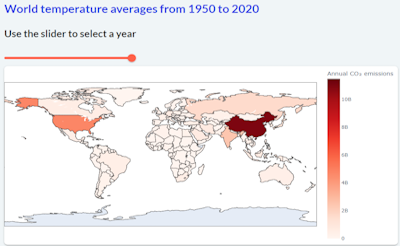
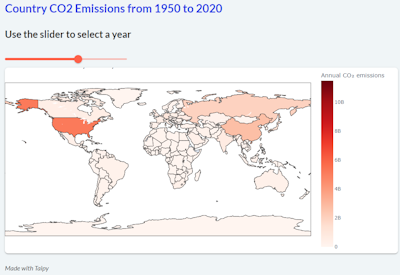
update

diff --git a/multipage/pages/home.py b/multipage/pages/home.py
@@ -5,12 +5,12 @@ import taipy.gui.builder as tgb
 def on_button_press(state, id):
     page = "home"
     if id == "CO2": page = "CO2_Sources" 
-    if id == "temp": page = "Average_World_Temperatures"
+    if id == "CO2Country": page = "CO2_by_Country"
     print(id,page)
     navigate(state, to=page)
 
 with tgb.Page() as page:
-    tgb.text( value = "## World Temperatures and CO2 Emissions", mode = 'md', class_name="color-secondary")
+    tgb.text( value = "## World CO2 Emissions", mode = 'md', class_name="color-secondary")
     tgb.text( value = "#### Explore the graphs using the navigation bar above, or the buttons below.", 
              mode = 'md')
     with tgb.layout(columns="1 1"):
@@ -20,11 +20,11 @@ with tgb.Page() as page:
                 with tgb.part():
                     tgb.text("__Select the Co2 Emissions page here:__", mode='md')
                 with tgb.part():
-                    tgb.button("CO2", id="CO2",  on_action=on_button_press)
+                    tgb.button("CO2 by source", id="CO2",  on_action=on_button_press)
         with tgb.part():
             tgb.text("![](images/worldtemppagesmall.png)", mode='md') 
             with tgb.layout("2 1"):
                 with tgb.part():
-                    tgb.text("__Select the world temperatures page here:__", mode='md')
+                    tgb.text("__Select CO2 by Country page here:__", mode='md')
                 with tgb.part():
-                    tgb.button("Temperatures", id="temp", on_action=on_button_press)
+                    tgb.button("CO2 by Country", id="CO2Country", on_action=on_button_press)

diff --git a/multipage/pages/CO2_map.py b/multipage/pages/CO2_map.py
@@ -7,11 +7,6 @@ year_max = 2020
 year_min = 1950
 year = year_max
 
-def plot_chart(df, year=year_max):
-    fig = px.bar(df, x="Month", y=str(year), title=f"CO2 Emissions by country in {year}")
-    fig.update_yaxes(range=[10,20])
-    return fig
-
 # define parameters for map graphic
 df_total = pd.read_csv('data/co2_total.csv')
 col = 'Annual CO₂ emissions'    # the column that contains the emissions data
@@ -26,7 +21,7 @@ def plot_choro(year):
         range_color=(min,max),  # the range of values as set above
         scope= 'world',         # a world map - the default
         projection='equirectangular', 
-        title='World CO2 Emissions',
+        title=f"CO2 Emissions by country in {year}",
         color_continuous_scale=px.colors.sequential.Reds
         )
 
@@ -36,14 +31,11 @@ def plot_choro(year):
 
     return fig
 
-#df = pd.read_csv("data/monthly-average-surface-temperatures-by-year-world.csv") 
-fig = plot_choro(year_max)
-
 def on_slider(state, var, val):    
     state.fig = plot_choro(val)
 
 with tgb.Page() as page:
-    tgb.text( value= f"### World temperature averages from {year_min} to {year_max}", mode='md', class_name="color-secondary")
+    tgb.text( value= f"### Country CO2 Emissions from {year_min} to {year_max}", mode='md', class_name="color-secondary")
     tgb.text(value="#### Use the slider to select a year", mode='md')
-    tgb.slider(value="{year}",min=year_min, max=year_max, on_change=on_slider)
+    tgb.slider(value="{year}", min=year_min, max=year_max, on_change=on_slider)
     tgb.chart(figure="{fig}")

diff --git a/multipage/main.py b/multipage/main.py
@@ -1,7 +1,7 @@
 from taipy.gui import Gui
 from pages.home import page as homepage
 from pages.CO2_src_chart import page as co2page
-from pages.av_temp_map import page as temppage
+from pages.CO2_map import page as CO2countrypage
 
 root_md = """
 <|navbar|>
@@ -13,7 +13,7 @@ pages = {
     "/": root_md,
     "home": homepage,
     "CO2_Sources": co2page,
-    "Average_World_Temperatures":temppage,
+    "CO2_by_Country":CO2countrypage,
 }
 
 Gui(pages=pages).run(dark_mode=False)
